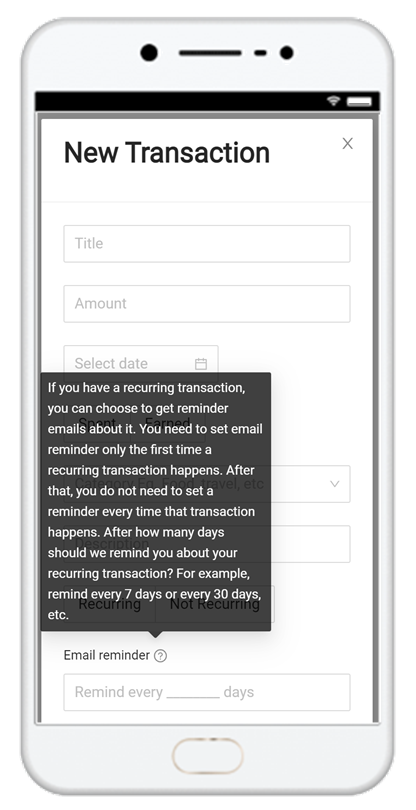
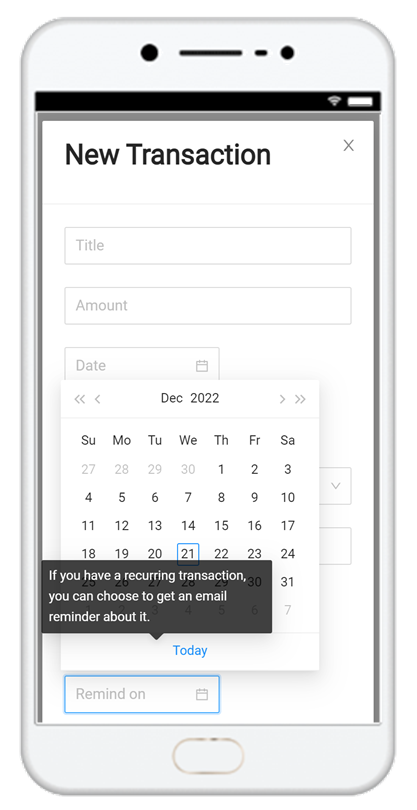
Change remind_after_days to remind_on a date

diff --git a/client/src/transactions/crud/AddEditTransaction.js b/client/src/transactions/crud/AddEditTransaction.js
@@ -67,9 +67,14 @@ const AddEditTransaction = ({
                     name="date"
                     rules={[{ required: true, message: 'Please enter the date!' }]}
                     hasFeedback={true}
-                    valuePropName='date'
+                // valuePropName='date'
                 >
-                    <DatePicker format='DD MMM YYYY' size='large' />
+                    <DatePicker
+                        format='DD MMM YYYY'
+                        // format='MMM DD YYYY'
+                        size='large'
+                        placeholder='Date'
+                    />
                 </Form.Item>
 
                 <Form.Item
@@ -131,17 +136,17 @@ const AddEditTransaction = ({
                 </Form.Item>
 
                 <Form.Item
-                    name="remind_after_days"
-                    tooltip='If you have a recurring transaction, you can choose to get reminder emails about it. You need to set email reminder only the first time a recurring transaction happens. After that, you do not need to set a reminder every time that transaction happens. After how many days should we remind you about your recurring transaction? For example, remind every 7 days or every 30 days, etc.'
+                    name="remind_on"
+                    tooltip='If you have a recurring transaction, you can choose to get an email reminder about it.'
                     label='Email reminder'
+                    // valuePropName='date'
                     hasFeedback={true}
                 >
-                    <InputNumber
+                    <DatePicker
+                        format='DD MMM YYYY'
+                        // format='MMM DD YYYY'
                         size='large'
-                        placeholder="Remind every ________ days"
-                        // placeholder="How many days between recurring emails"
-                        min={0}
-                        className='ant-input-number-full-width'
+                        placeholder='Remind on'
                     />
                 </Form.Item>
 

diff --git a/client/src/transactions/tables/TransactionsTable.js b/client/src/transactions/tables/TransactionsTable.js
@@ -1,5 +1,6 @@
 import { Table, Button, Popconfirm } from "antd";
 import { EditFilled, DeleteOutlined, QuestionCircleOutlined } from "@ant-design/icons"
+import moment from 'moment'
 
 const TransactionsTable = ({
     transactions,
@@ -37,7 +38,13 @@ const TransactionsTable = ({
                             icon={<EditFilled />}
                             onClick={() => {
                                 // see if you want a named function here, like some local editRecord(record) or something
-                                setSelectedTransaction(record)
+                                const tempRecord = record
+                                tempRecord.date = moment(record.date)
+                                if (tempRecord.remind_on) {
+                                    tempRecord.remind_on = moment(record.remind_on)
+                                }
+                                setSelectedTransaction(tempRecord)
+                                // setSelectedTransaction(record)
                                 setTransactionFormOpen(true)
                             }}
                         />
@@ -87,7 +94,7 @@ const TransactionsTable = ({
                                 <br />
                                 Recurring: {record.recurring ? "Yes" : "No"},
                                 <br />
-                                Remind every: {record.recurring && record.remind_after_days ? record.remind_after_days + " days" : "NA"},
+                                Remind on: {record.recurring && record.remind_on ? new Date(record.remind_on).toDateString()/*.substring(4)*/ : "NA"},
                                 <br />
                                 Description: {record.description ? record.description : "NA"}
                             </span>

diff --git a/server/models/transactions/transaction.model.js b/server/models/transactions/transaction.model.js
@@ -25,6 +25,9 @@ const transactionSchema = new mongoose.Schema(
             validate: {
                 validator: validator.isDate,
                 message: 'Date is invalid'
+            },
+            set: function (value) {
+                return new Date(new Date(value).setHours(0, 0, 0, 0))
             }
         },
         type: {
@@ -49,17 +52,26 @@ const transactionSchema = new mongoose.Schema(
         recurring: {
             type: Boolean,
         },
-        remind_after_days: {
-            type: Number,
-            min: [0, 'Days cannot be lesser than 0'],
+        remind_on: {
+            type: Date,
             // required: [
             //     function () {
             //         return this.recurring ? true : false
             //     },
-            //     'Email reminder after how many days?'
+            //     'When do you want an email reminder?'
             // ],
+            validate: {
+                validator: function (value) {
+                    return value > this.date
+                },
+                message: 'Reminder date cannot be earlier than the transaction date'
+            },
             set: function (value) {
-                return this.recurring && value ? value : undefined
+                if (this.recurring && value) {
+                    return new Date(new Date(value).setHours(0, 0, 0, 0))
+                }
+
+                return undefined
             }
         }
     }

diff --git a/client/src/transactions/crud/transactions.js b/client/src/transactions/crud/transactions.js
@@ -26,8 +26,8 @@ async function getTransactions() {
 async function saveTransaction(formValues, setIsLoading, setSelectedTransaction, setTransactionFormOpen, setTransactions, setCategories) {
     setIsLoading(true)
 
-    if (!formValues.recurring && formValues.remind_after_days) {
-        formValues.remind_after_days = undefined
+    if (!formValues.recurring && formValues.remind_on) {
+        formValues.remind_on = undefined
     }
 
     const response = await fetch('/api/transaction', {
@@ -61,8 +61,8 @@ async function saveTransaction(formValues, setIsLoading, setSelectedTransaction,
 async function editTransaction(formValues, transactionId, setIsLoading, setSelectedTransaction, setTransactionFormOpen, setTransactions, setCategories) {
     setIsLoading(true)
 
-    if (!formValues.recurring && formValues.remind_after_days) {
-        formValues.remind_after_days = undefined
+    if (!formValues.recurring && formValues.remind_on) {
+        formValues.remind_on = undefined
     }
 
     const response = await fetch('/api/transaction/' + transactionId, {

diff --git a/client/src/transactions/crud/CRUDTransactionButtons.js b/client/src/transactions/crud/CRUDTransactionButtons.js
@@ -4,6 +4,7 @@ import AddEditTransaction from "./AddEditTransaction";
 import EditCategory from "./EditCategory";
 import FilterTransactions from "./FilterTransactions";
 import { isEmpty } from "./transactions";
+import moment from 'moment'
 
 const transactionViews = [
     {
@@ -27,12 +28,12 @@ const transactionCategoryOptions = [
 const defaultTransactionFormValues = {
     "title": null,
     "amount": null,
-    "date": null,
+    "date": moment(),
     "type": null,
     "category": null,
     "description": null,
     "recurring": null,
-    "remind_after_days": null
+    "remind_on": moment()
 }
 
 const defaultFilterFormValues = {

diff --git a/server/controllers/transactions/transactionHelper.js b/server/controllers/transactions/transactionHelper.js
@@ -16,8 +16,8 @@ const constructFilter = async ({ email, user, ...filters }) => {
     if (startDate && endDate && (startDate > endDate)) {
         throw new Error('Start date cannot be greater than end date')
     }
-    startDate && (filter.date.$gte = new Date(startDate));
-    endDate && (filter.date.$lte = new Date(endDate));
+    startDate && (filter.date.$gte = new Date(new Date(startDate).setHours(0, 0, 0, 0)));
+    endDate && (filter.date.$lte = new Date(new Date(endDate).setHours(0, 0, 0, 0)));
 
     (startAmount || endAmount) && (filter.amount = {});
     if (startAmount && endAmount && (startAmount > endAmount)) {
